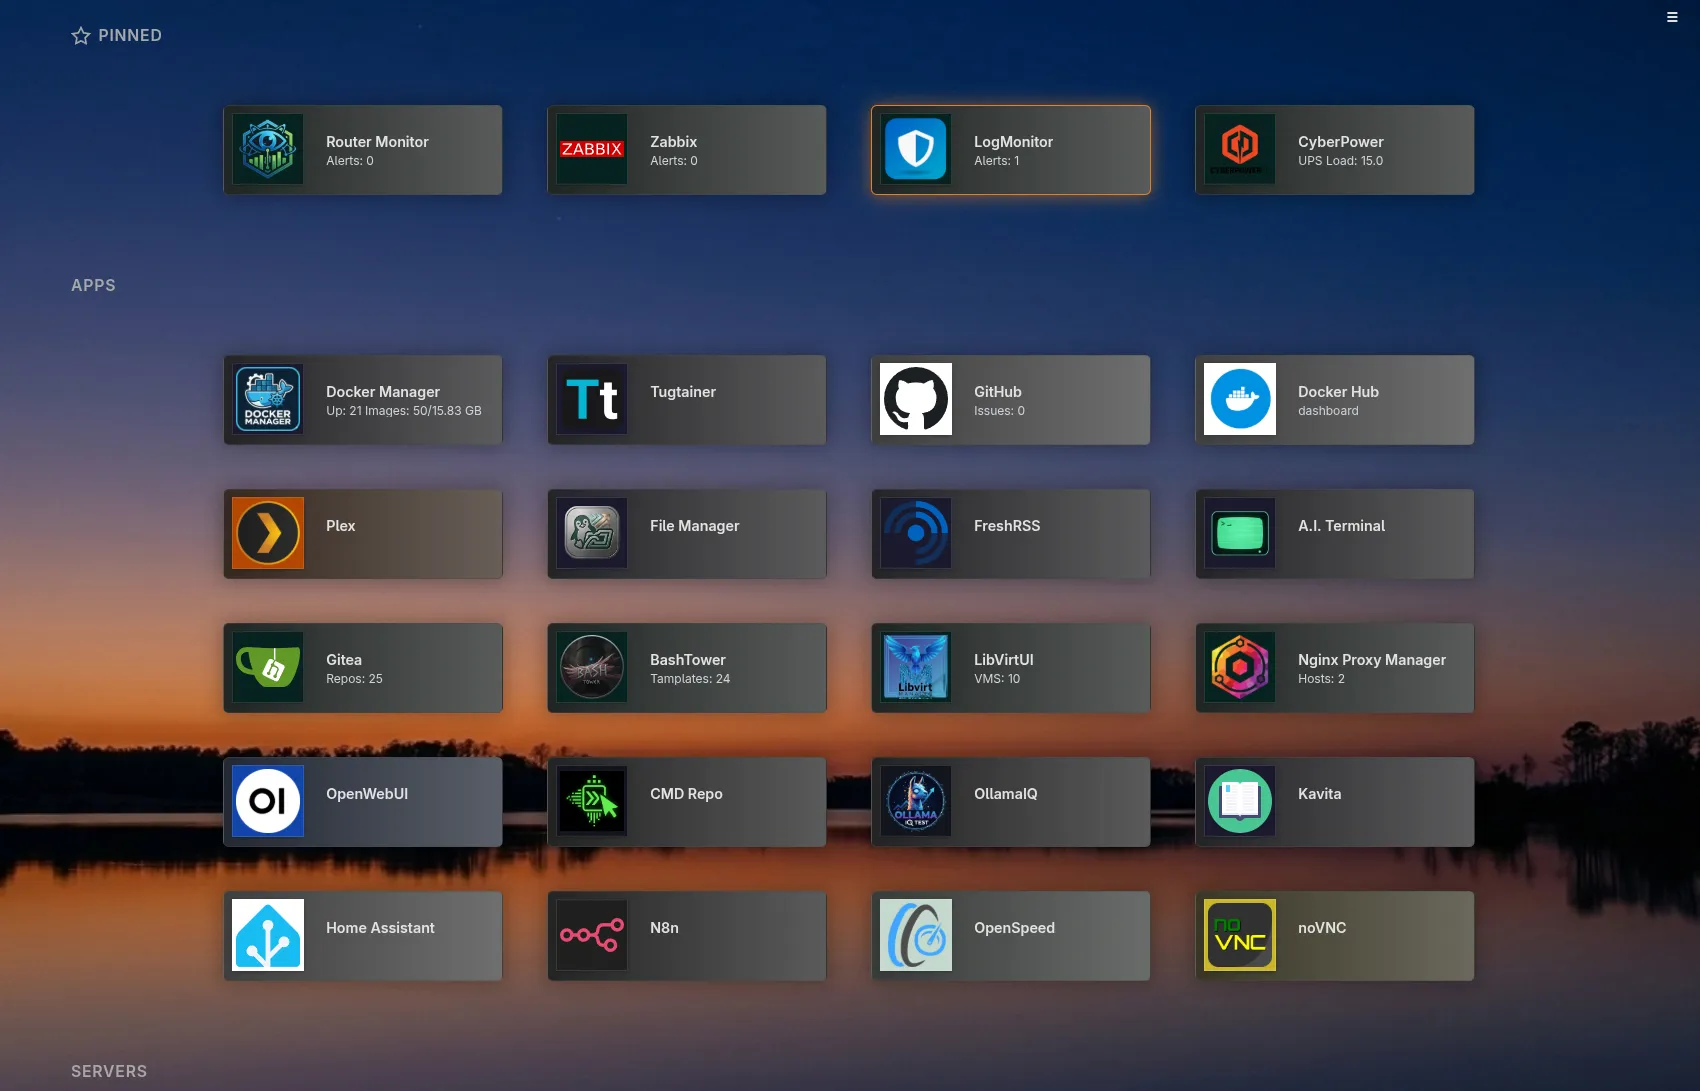
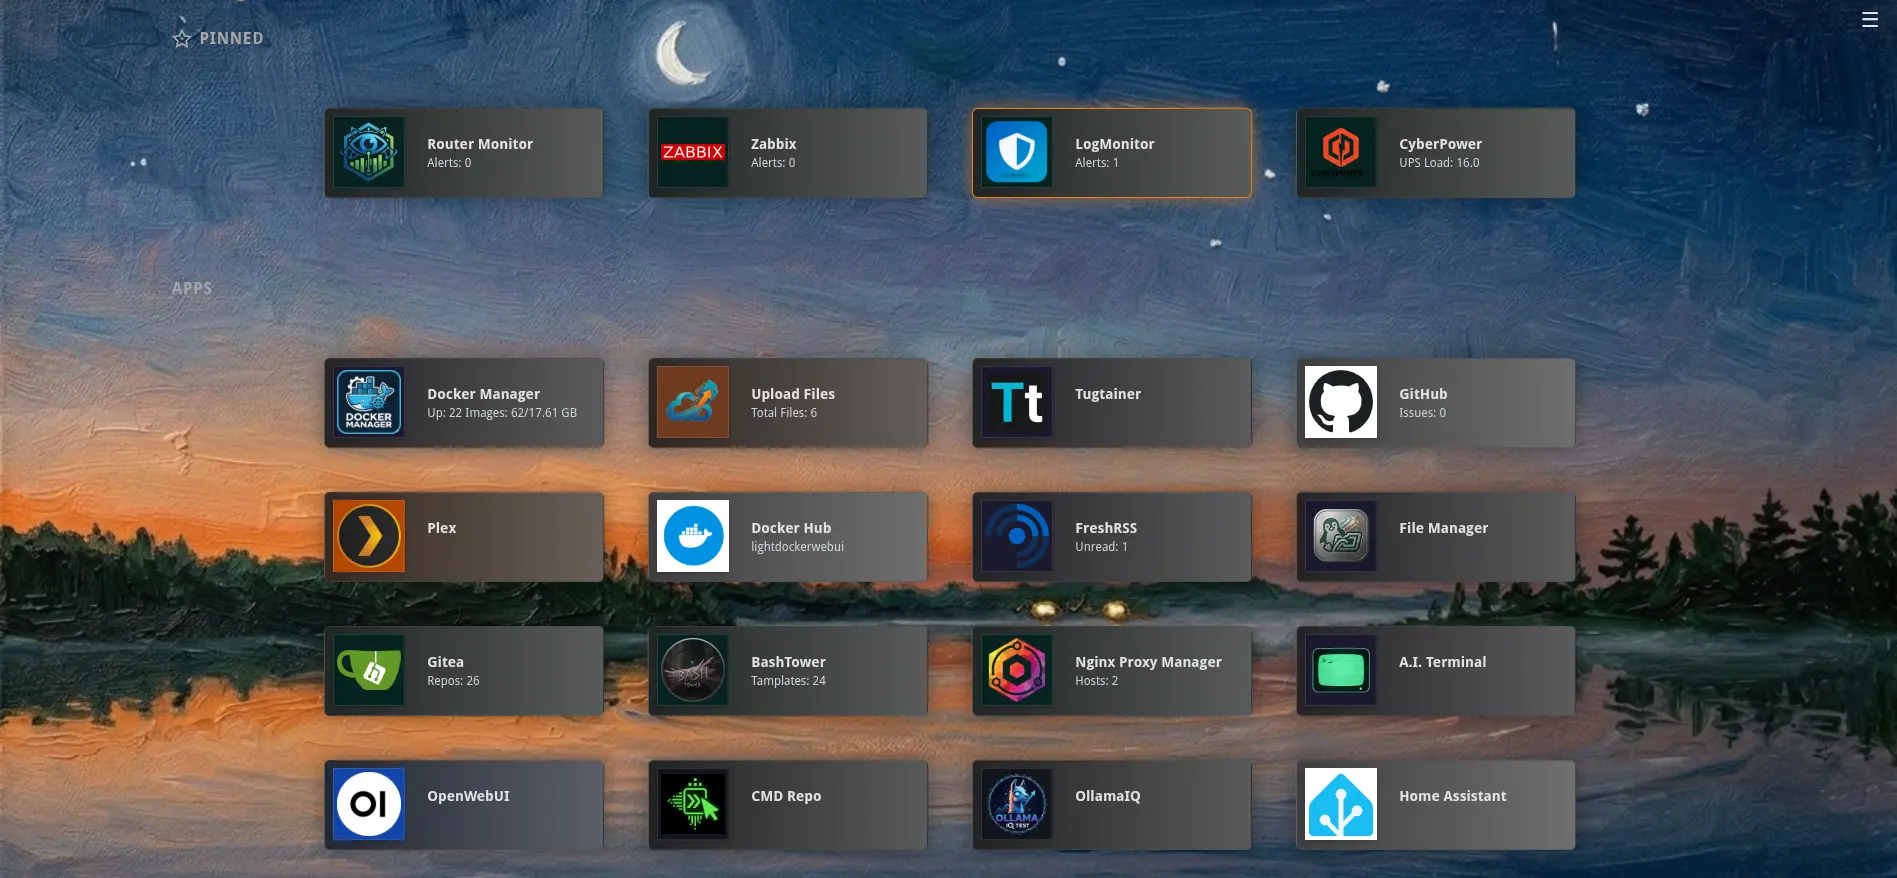
fix: update image asset for improved visual quality

diff --git a/templates/base.html b/templates/base.html
@@ -7,7 +7,7 @@
     <link rel="stylesheet" href="{{ url_for('static', filename='style.css') }}">
     <link rel="icon" href="{{ url_for('static', filename='favicon.svg') }}" type="image/svg+xml">
 </head>
-{% set background = settings.get('background_url') or url_for('static', filename='blue.webp') %}
+{% set background = settings.get('background_url') or url_for('static', filename='wowblue.webp') %}
 <body data-alert-keywords="{{ settings.get('alert_keywords','alert,alerts') }}" style="background-image: url('{{ background }}'); background-size: cover; background-position: center; background-attachment: fixed;">
     <!-- navbar is always output, but start collapsed when disabled in settings -->
     <nav class="navbar{% if settings.get('navbar_enabled', 'true') != 'true' %} collapsed{% endif %}">
